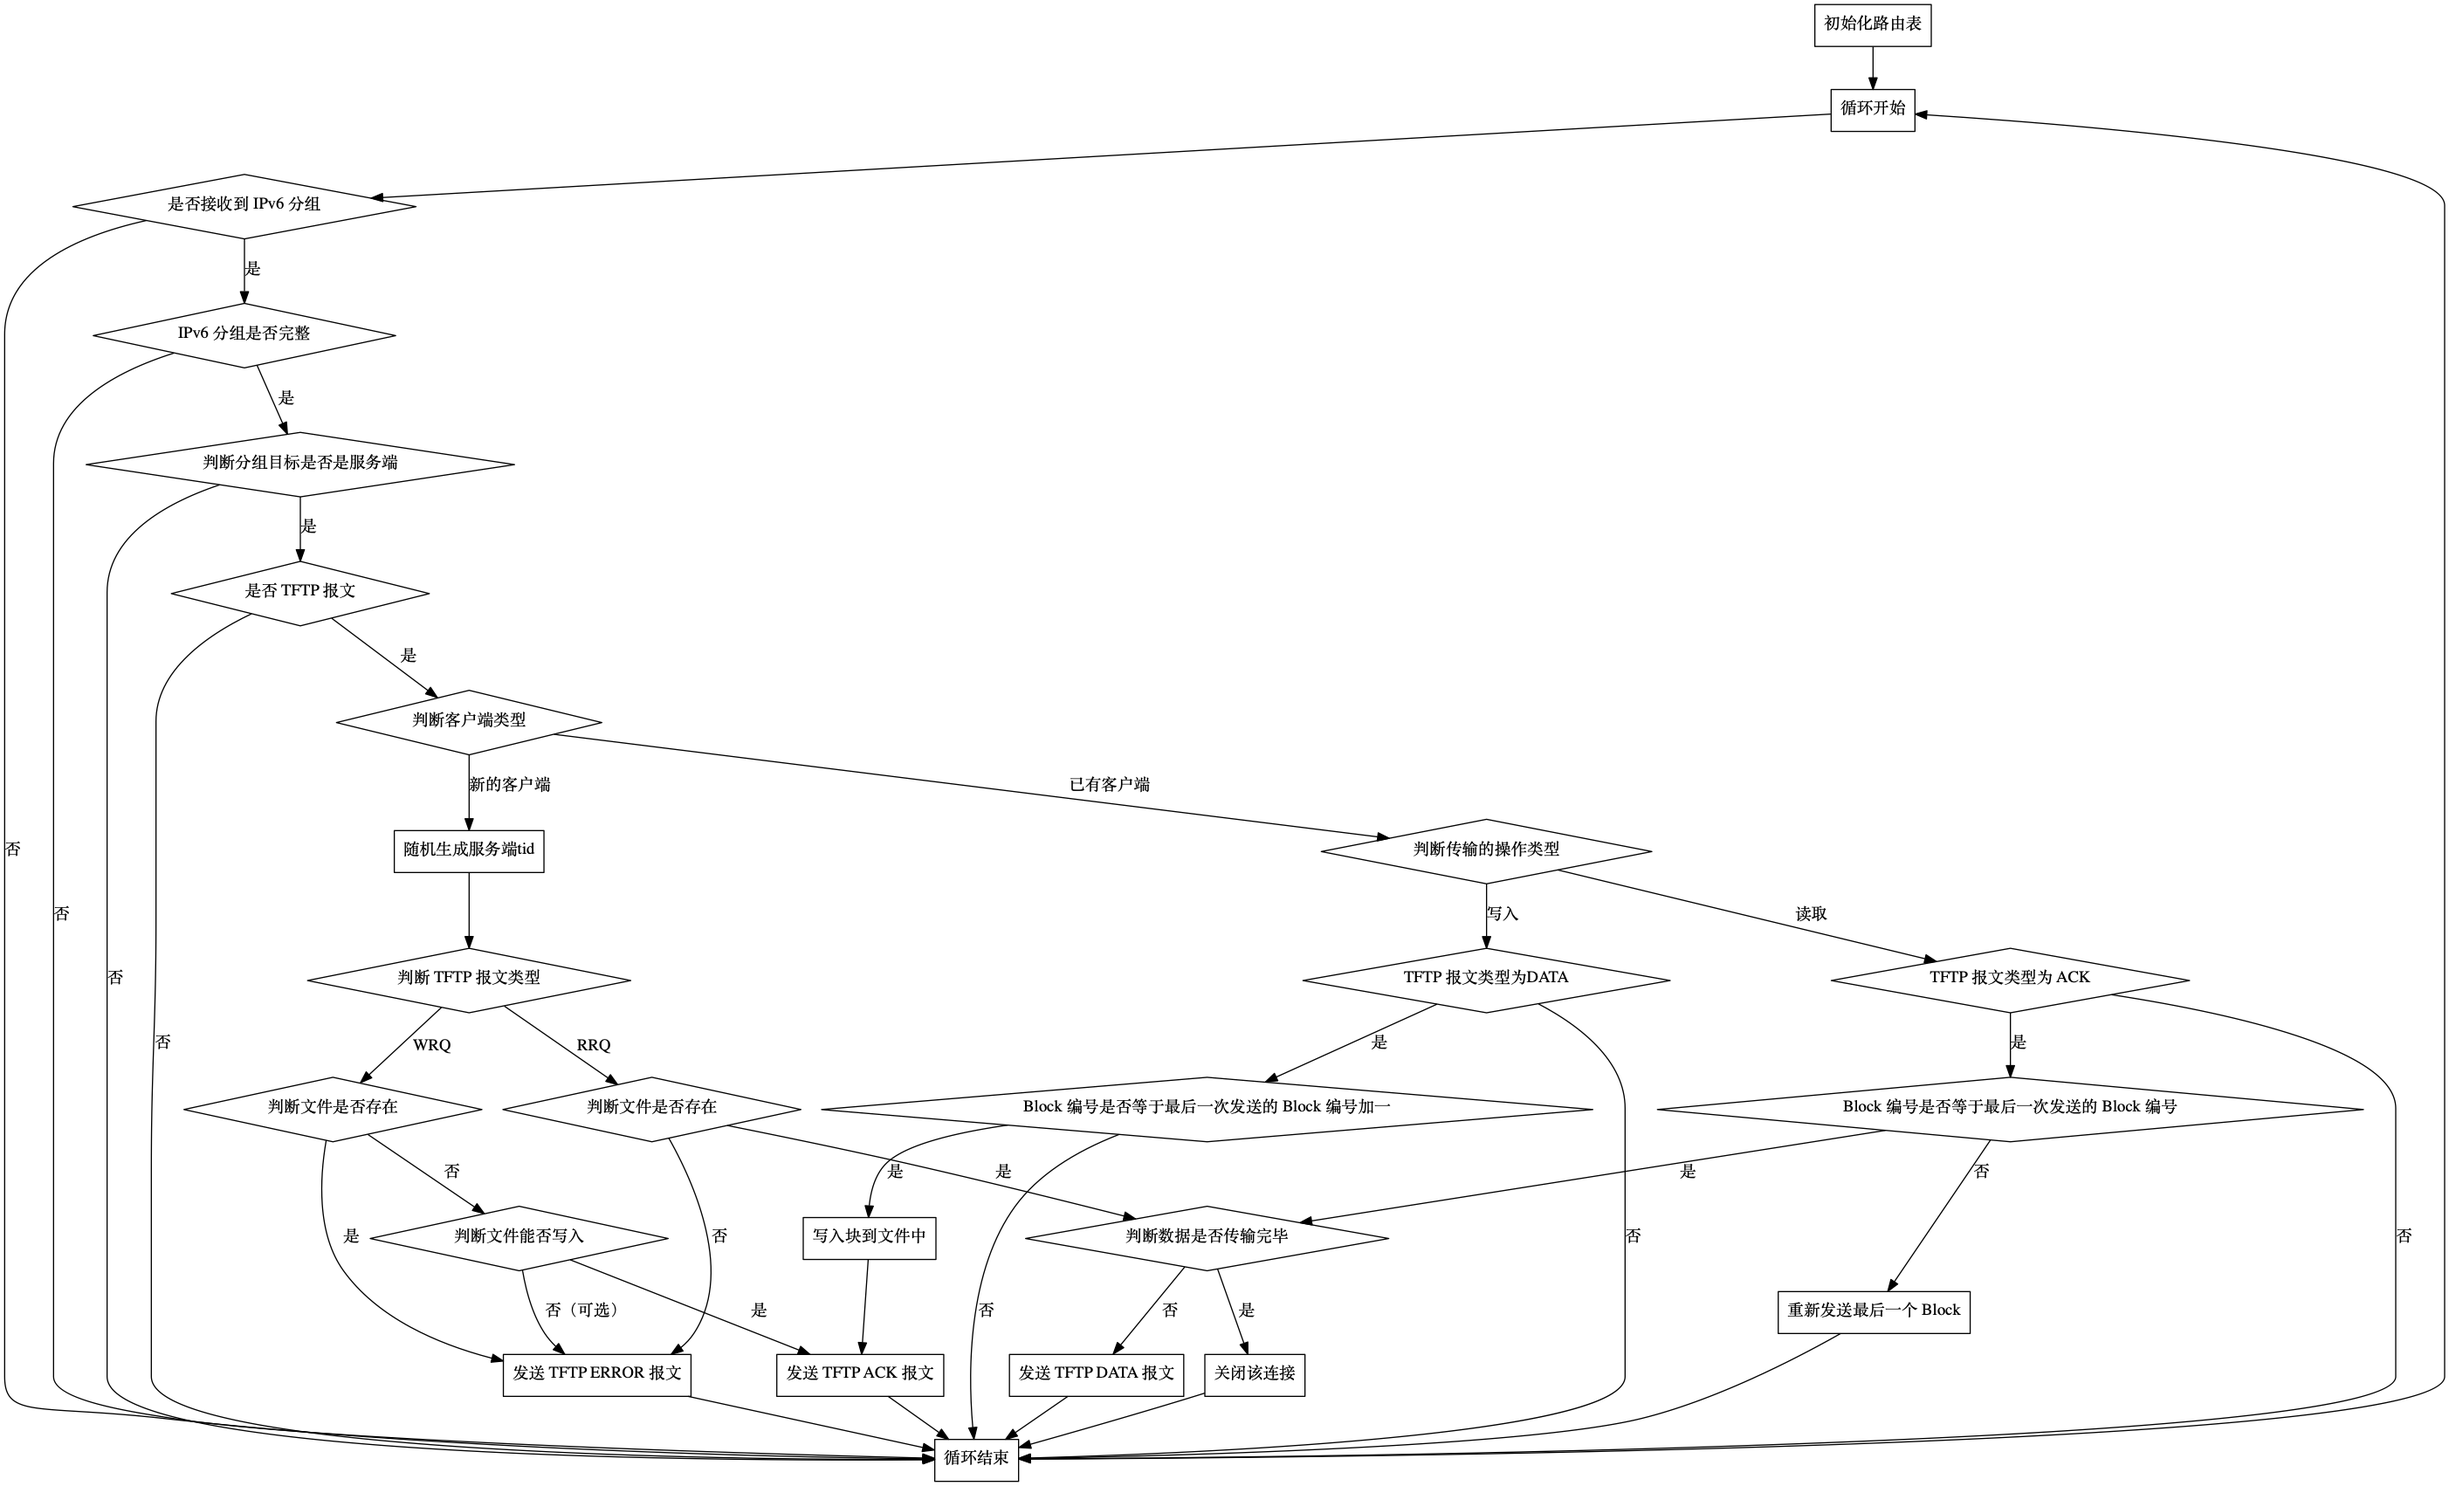
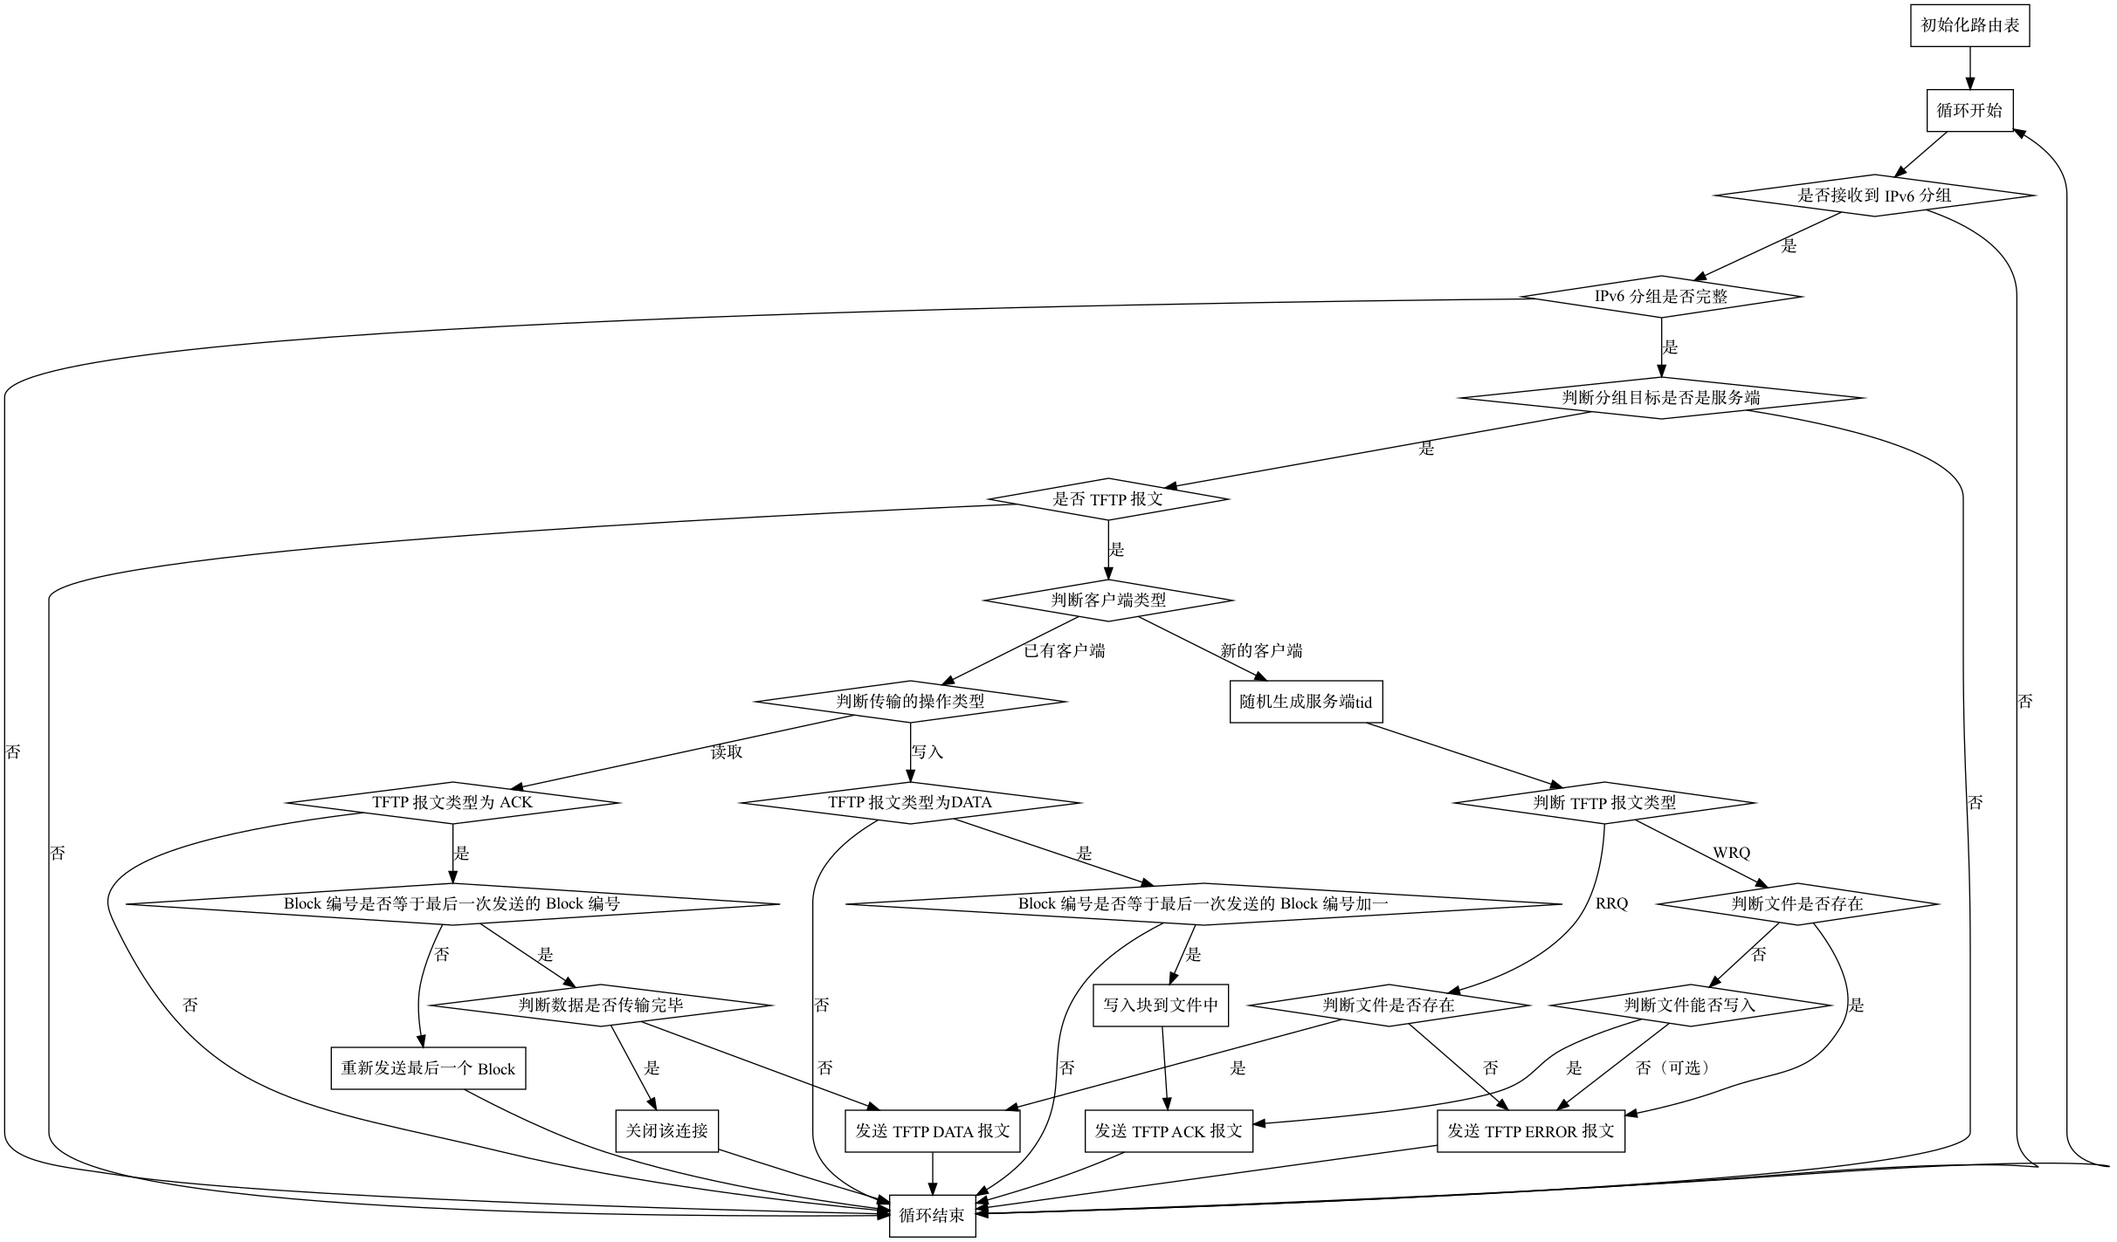
More detailed tftp server flow chart

diff --git a/docs/software/second_stage/tftp_overview.md b/docs/software/second_stage/tftp_overview.md
@@ -40,12 +40,18 @@ TFTP 服务端的主要工作流程如下：
 2. 进入主循环；
 3. 接收 IPv6 分组，如果没有收到就跳到第 2 步；
 4. 检查 IPv6 分组的完整性和正确性；
-5. 判断 IPv6 分组目标是否是服务端：如果是，则进入 TFTP 协议处理；如果否，忽略并跳到第2步；
-6. 如果 IPv6 分组来自新的 TFTP 客户端，为该客户端随机生成服务端 TID 并记录相关信息，如果是 TFTP RRQ，文件不存在则构造 TFTP ERROR 并发送，文件存在则读取文件，构造 TFTP DATA 并发送；如果是 TFTP WRQ，文件存在则构造 TFTP ERROR 并发送，文件不存在则构造 TFTP ACK 并发送；
-7. 如果 IPv6 分组来自已有的 TFTP 客户端，如果正在进行的传输的操作是读取且收到的为 TFTP ACK，则检查 Block 编号判断进行重传或者发送下一块；如果正在进行的传输的操作是写入且收到的为 TFTP DATA，若 Block 编号为最后一次传输的 Block 编号加一，则写入块到文件并发送 TFTP ACK；
+5. 判断 IPv6 分组目标是否是服务端：如果是，则进入 TFTP 协议处理；如果否，忽略并跳到第 2 步；
+6. 如果 IPv6 分组来自新的 TFTP 客户端，为该客户端随机生成服务端 TID 并记录相关信息；
+    1. 如果是 TFTP RRQ，文件不存在则构造 TFTP ERROR 并发送，文件存在则读取文件，构造 TFTP DATA 并发送文件第一个块，同时更新传输状态；
+    2. 如果是 TFTP WRQ，文件存在则构造 TFTP ERROR 并发送，文件不存在则构造 TFTP ACK 并发送，告诉客户端可以开始发送文件内容，同时更新传输状态；
+7. 如果 IPv6 分组来自已有的 TFTP 客户端
+    1. 如果正在进行的传输的操作是读取且收到的为 TFTP ACK，则检查 Block 编号：
+        1. 如果和最后一次发送的 Block 编号相等，说明客户端已经收到最后一次发送的 Block，根据当前传输状态，判断要继续发送下一个块，还是当前传输已经结束；
+        2. 如果和最后一次发送的 Block 编号不相等，说明客户端没有收到最后一次发送的 Block，则要重新发送最后一次发送的 Block；
+    2. 如果正在进行的传输的操作是写入且收到的为 TFTP DATA，则检查 Block 编号，若 Block 编号为最后一次传输的 Block 编号加一，说明客户端发送了新的块，则写入块到文件并发送 TFTP ACK；
 8. 跳到第 2 步，进入下一次循环处理。
 
-更详细的处理流程可以参考下面的流程图：
+也可以见下面的流程图：
 
 ![](img/flow_tftp_server.png)
 
@@ -68,12 +74,17 @@ TODO
   2. 对收到的 TFTP WRQ，若文件不存在且可写入，则生成 TFTP ACK 回复，否则生成 TFTP ERROR 回复；
   3. 若正在进行的传输的操作为读取，对收到的 TFTP ACK，若 Block 编号等于最后一次发送的 Block 编号，则读取下一块并生成 TFTP DATA 回复，否则重新发送最后一个 Block；
   4. 若正在进行的传输的操作为写入，对收到的 TFTP DATA，若 Block 编号等于最后一次发送的 Block 编号加一，则写入块到文件中并生成 TFTP ACK 回复；
-- TFTP客户端：
+- TFTP 客户端：
   1. TODO
 
 可选实现的有（不加分）：
 
-1. 在服务端接收到 TFTP WRQ，但无法写入文件时，回复 TFTP ERROR；
+- TFTP 服务端：
+  1. 接收到 TFTP WRQ，但无法写入文件时，回复 TFTP ERROR；
+  2. 若正在进行的传输的操作为写入，对收到的 TFTP DATA，若 Block 编号不等于最后一次发送的 Block 编号加一，则重新发送 TFTP ACK，告诉客户端需要重新传输 TFTP DATA；
+  3. 除了 octet 以外的传输模式，如 binascii，都可以当成 octet 来实现。
+- TFTP 客户端：
+  1. TODO
 
 !!! attention "HONOR CODE"
 
